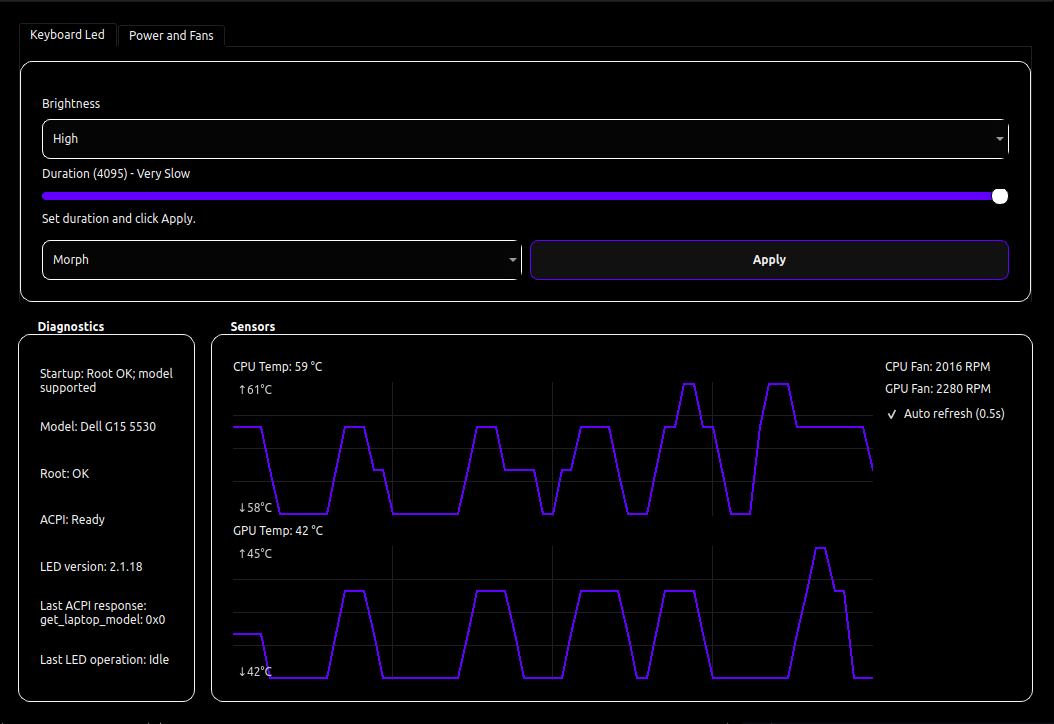
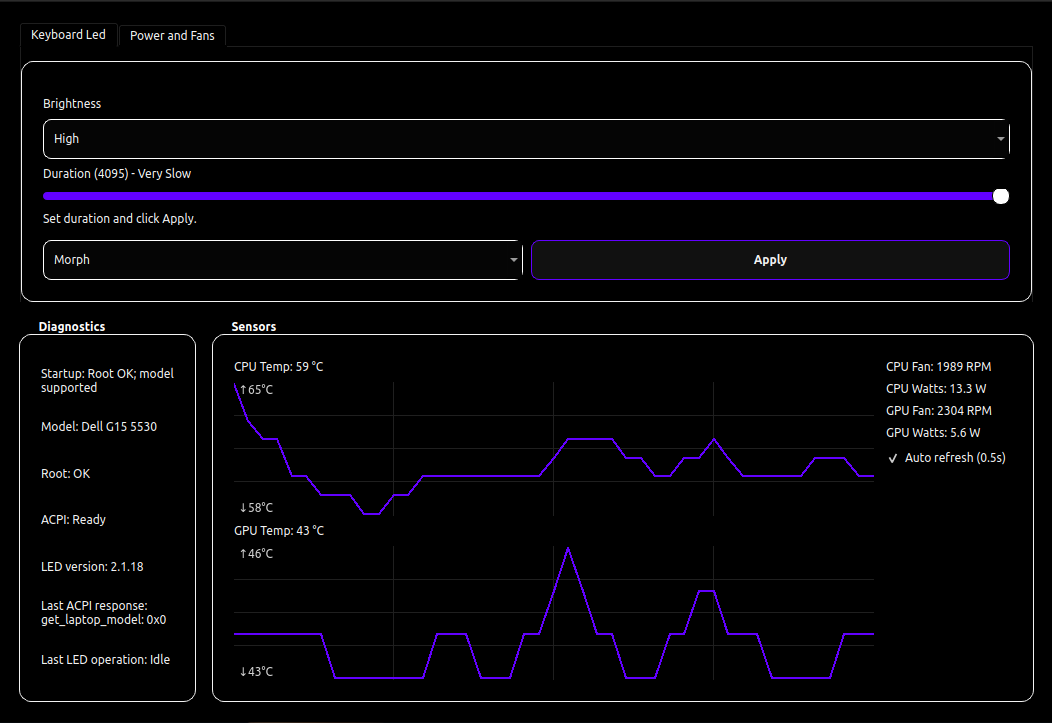
new screenshots, changed CPU/GPU Watts to CPU/GPU Power

diff --git a/ui/sensors.py b/ui/sensors.py
@@ -300,9 +300,9 @@ class SensorsPanelMixin:
         self.sensor_cpu_label = QLabel("CPU Temp: N/A")
         self.sensor_gpu_label = QLabel("GPU Temp: N/A")
         self.sensor_fan1_label = QLabel("CPU Fan: N/A RPM")
-        self.sensor_cpu_watts_label = QLabel("CPU Watts: N/A")
+        self.sensor_cpu_watts_label = QLabel("CPU Power: N/A")
         self.sensor_fan2_label = QLabel("GPU Fan: N/A RPM")
-        self.sensor_gpu_watts_label = QLabel("GPU Watts: N/A")
+        self.sensor_gpu_watts_label = QLabel("GPU Power: N/A")
 
         # Sparklines (resize with window)
         self.spark_cpu = QLabel()
